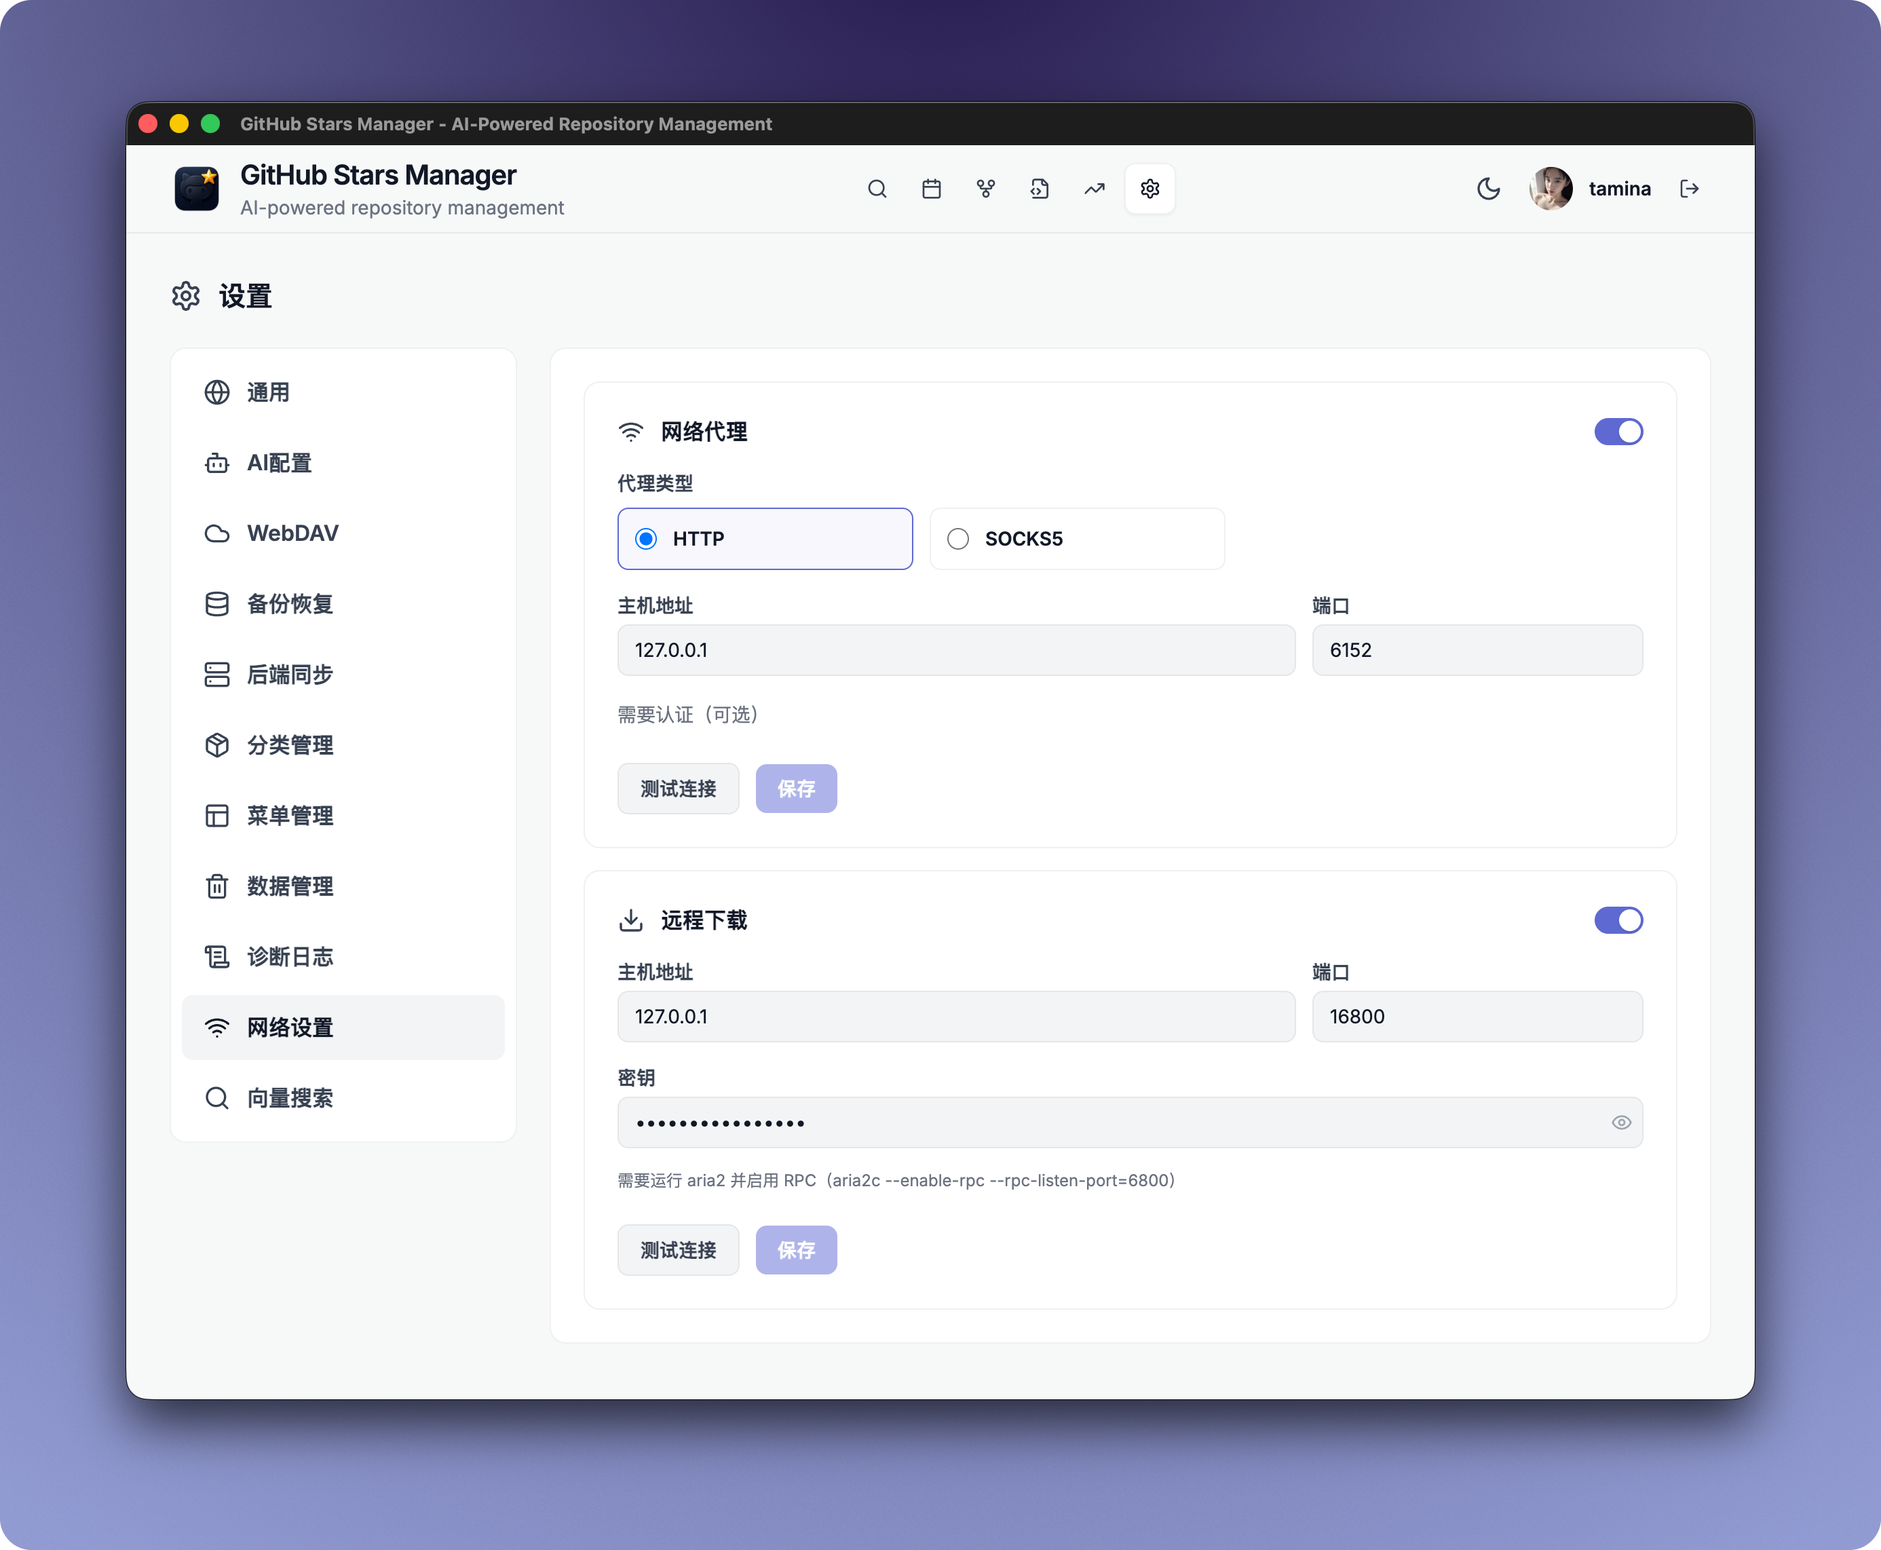
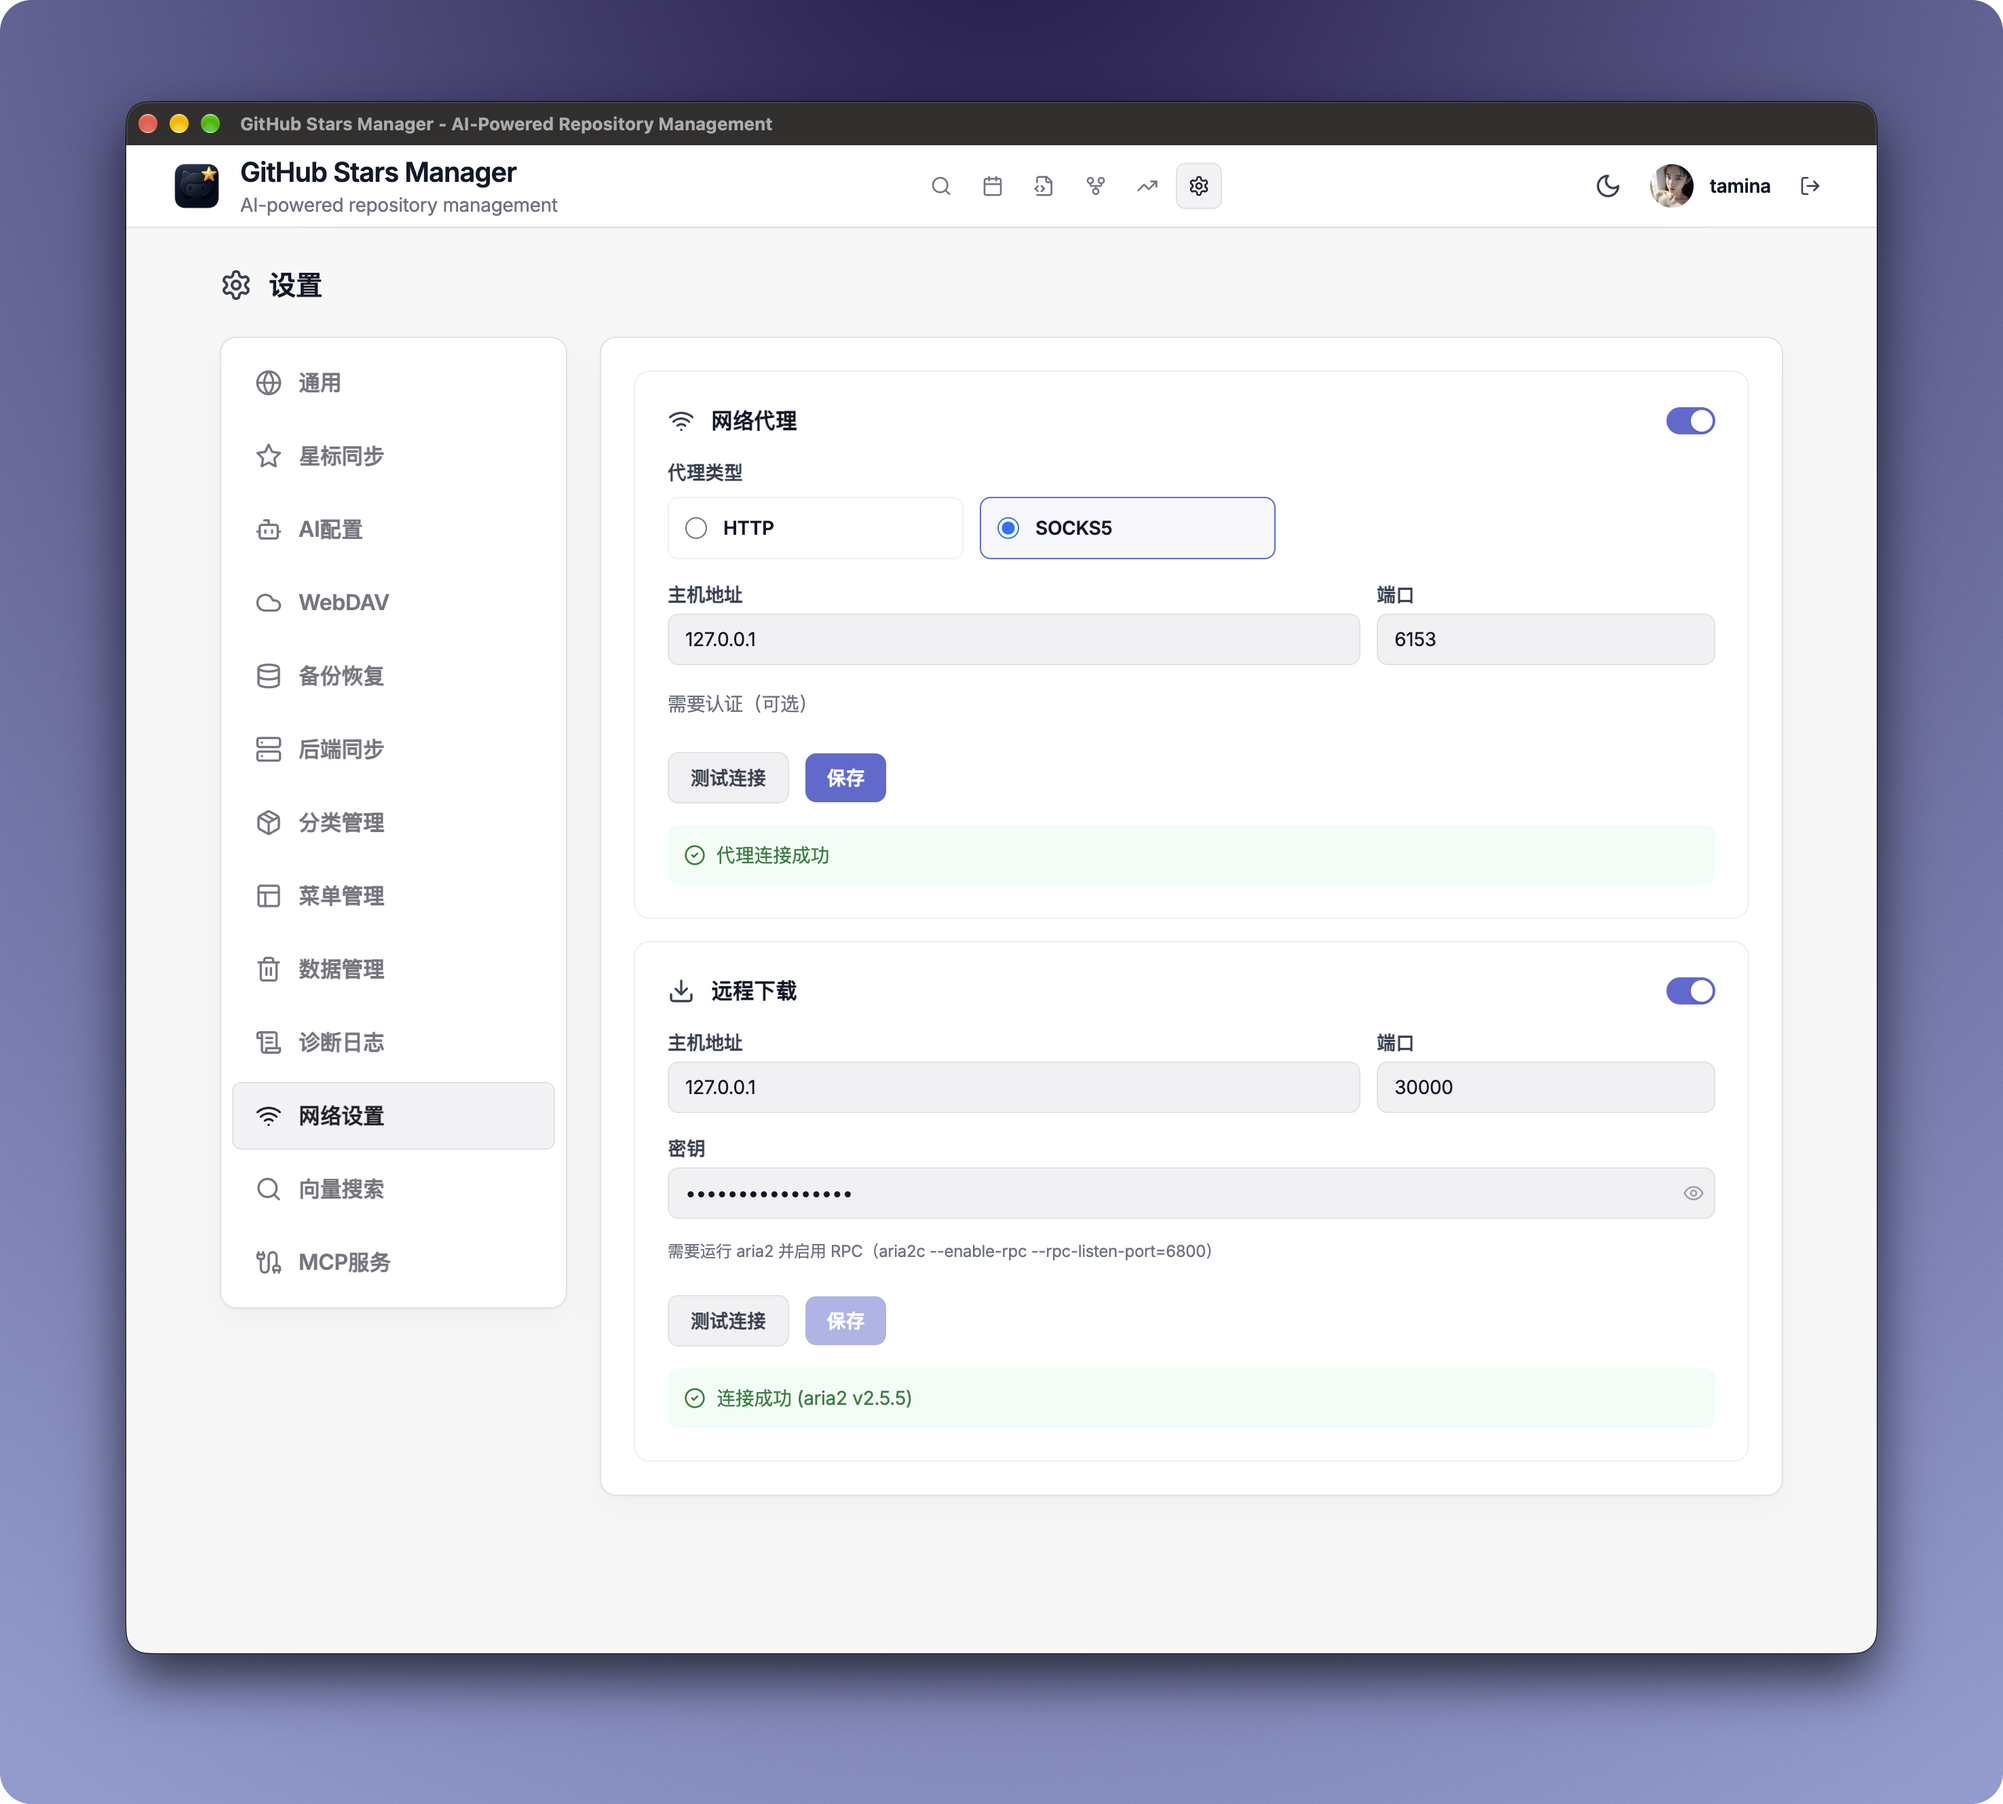
update readme

diff --git a/README.md b/README.md
@@ -28,6 +28,7 @@ GitHub Stars Manager automatically syncs your starred repos, uses AI to summariz
 | Feature | Description |
 |---------|-------------|
 | **Auto-sync Stars** | Connect your GitHub token to automatically pull all starred repositories |
+| **GitHub Lists Sync** | Bidirectional sync with native GitHub Lists: pull Lists into tags/categories with auto-lock, push local categories back as GitHub Lists |
 | **AI Summaries & Categories** | Generate tags, topics, and short README overviews using AI |
 | **Semantic Search** | Find repos by intent, not exact names |
 | **Vector Semantic Search** | Embed repo descriptions/READMEs into a Cloudflare Vectorize index; query with natural language for high-precision semantic matching |
@@ -172,6 +173,7 @@ Deploy an Express + SQLite backend for:
 | **Category** | Category management, category sorting, default category override rules |
 | **Data Management** | Data import/export, clear local data, reset all data |
 | **Vector Search** | Configure Cloudflare Vectorize worker, embedding model, index mode (description / README), and manage index rebuild |
+| **MCP Server** | Enable MCP so agents (Claude Code, Cursor, etc.) can search your AI-enriched stars via Streamable HTTP / SSE with Bearer-token auth |
 
 **Screenshot:**
 ![Settings Panel Interface](upload/settings.png)
@@ -351,6 +353,43 @@ Vector Semantic Search uses [Cloudflare Vectorize](https://developers.cloudflare
 5. Use the **AI Search** button — it will automatically use vector search when enabled
 
 > ⚠ After changing the embedding model, you must rebuild the index — different models produce incompatible vector dimensions.
+
+## 🛰 MCP Server (Agent access)
+
+Let agents (Claude Code, Cursor, etc.) read your AI-enriched starred repositories — summaries, tags, categories — and search them via the [Model Context Protocol](https://modelcontextprotocol.io/).
+
+- **Streamable HTTP** (preferred): `POST /mcp` on the app origin (backend/Docker mode) or `http://127.0.0.1:3927/mcp` (desktop local mode)
+- **Legacy SSE**: `/mcp/sse` + `/mcp/sse/messages` (backend), `/sse` + `/messages` (desktop) — for older clients
+- **Bearer-token auth** with a stable token (`gsm_mcp_...`): generated once when enabled, kept across restarts, only changes when you reset it
+
+**Enable:** Settings → MCP Server → toggle on. The panel shows the endpoint URLs, the token, and a one-click copyable agent config (JSON) for both Streamable HTTP and SSE. No extra install needed.
+
+> 💡 The MCP token is **separate** from the backend `API_SECRET`. Pure frontend (no backend) hides the MCP settings page; it works with the desktop (Electron) client or a connected backend.
+
+**Exposed tools (read-only):**
+
+| Tool | Description |
+|------|-------------|
+| `gsm_status` | Server status: repo count, vector availability, version |
+| `gsm_search_repos` | Keyword search over stars with filters (languages / tags / platforms / licenses / category / stars) and pagination |
+| `gsm_get_repo` | Fetch one repo by numeric id or `owner/repo`, with AI-processed fields |
+| `gsm_list_categories` | List custom categories |
+| `gsm_list_repos_by_category` | List repos in a category with pagination |
+| `gsm_stats` | Aggregate stats (languages, analysis, tags) |
+| `gsm_vector_search` | Semantic vector search — listed only when Vector Search is configured and enabled |
+
+**Desktop (Electron) notes:** binds loopback (`127.0.0.1`) only — local agents only; host/port adjustable in Settings (default port `3927`).
+
+![MCP](upload/mcp.png)
+
+## 🔄 GitHub Lists Bidirectional Sync
+
+Native [GitHub Lists](https://github.com/features/lists) (starred lists) sync both ways, in addition to the classic REST star sync:
+
+- **Pull (GitHub → app)** — choose **Starred repos & lists** in **Settings → Star Sync** (or on first login). Lists are fetched via GraphQL; each list name is applied as a custom tag, and unlocked repos are categorized to the matching category and **auto-locked** so AI analysis won't reset them.
+- **Push (app → GitHub)** — click **Push categories to GitHub lists** in **Settings → Star Sync**. Each local category is written back as a same-named GitHub List (existing lists overwritten, missing lists created private by default); repos join the lists matching their category, and memberships in lists not managed locally are preserved.
+
+> Scope is persistent: switch anytime between **Starred repos only** and **Starred repos & lists** in Settings → Star Sync.
 
 ## 💾 WebDAV Backup Configuration
 

diff --git a/README_zh.md b/README_zh.md
@@ -25,6 +25,7 @@
 | 功能 | 描述 |
 |------|------|
 | **自动同步星标** | 连接 GitHub Token 自动拉取所有星标仓库 |
+| **GitHub Lists 双向同步** | 与 GitHub 原生 Lists（星标列表）双向同步：拉取 Lists 归类为标签/分类并自动锁定，将本地分类回写为 GitHub Lists |
 | **AI 摘要与分类** | 使用 AI 生成标签、主题和简短 README 概览 |
 | **语义搜索** | 按意图而非精确名称查找仓库 |
 | **向量语义搜索** | 将仓库描述/README 嵌入 Cloudflare Vectorize 向量库，自然语言查询实现高精度语义匹配 |
@@ -168,6 +169,7 @@
 | **Category** | 分类管理、分类排序、默认分类覆盖规则 |
 | **Data Management** | 数据导入/导出、清除本地数据、重置所有数据 |
 | **向量搜索** | 配置 Cloudflare Vectorize Worker、Embedding 模型、索引模式（描述/README）、索引重建管理 |
+| **MCP 服务** | 开启 MCP 供 Claude Code、Cursor 等 Agent 通过 Streamable HTTP / SSE 检索 AI 加工后的星标，Bearer Token 鉴权 |
 
 **截图：**
 ![Settings Panel Interface](upload/settings.png)
@@ -295,6 +297,43 @@ npm run build
 5. 使用 **AI 搜索** 按钮 — 启用后自动走向量搜索
 
 > ⚠ 更换 Embedding 模型后必须重建索引 — 不同模型生成的向量维度不兼容。
+
+## 🛰 MCP 服务（Agent 访问）
+
+让 Agent（Claude Code、Cursor 等）通过 [Model Context Protocol](https://modelcontextprotocol.io/) 读取并检索 AI 加工后的星标仓库（摘要、标签、分类）。
+
+- **Streamable HTTP**（推荐）：应用同源 `POST /mcp`（后端/Docker 模式）或 `http://127.0.0.1:3927/mcp`（客户端本地模式）
+- **旧版 SSE**：`/mcp/sse` + `/mcp/sse/messages`（后端），`/sse` + `/messages`（客户端）— 供旧客户端使用
+- **Bearer Token 鉴权**，Token（`gsm_mcp_...`）稳定不变：开启时生成一次、重启后保持不变、仅在重置时更换
+
+**开启方式：** 设置 → MCP 服务 → 打开开关。面板会显示端点地址、Token 以及一键复制（JSON）的 Agent 配置，同时提供 Streamable HTTP 与 SSE 两套配置，无需额外安装。
+
+> 💡 MCP Token 与后端 `API_SECRET` 相互独立。纯前端（无后端）模式不显示 MCP 设置页；需要桌面（Electron）客户端或已连接后端时可用。
+
+**暴露的工具（全部只读）：**
+
+| 工具 | 说明 |
+|------|------|
+| `gsm_status` | 服务状态：仓库数、向量可用性、版本 |
+| `gsm_search_repos` | 对星标做关键词搜索，支持筛选（语言 / 标签 / 平台 / 许可证 / 分类 / 星标数）与分页 |
+| `gsm_get_repo` | 按数字 id 或 `owner/repo` 获取单个仓库，含 AI 加工字段 |
+| `gsm_list_categories` | 列出自定义分类 |
+| `gsm_list_repos_by_category` | 分页列出某分类下的仓库 |
+| `gsm_stats` | 聚合统计（语言、分析、标签） |
+| `gsm_vector_search` | 语义向量搜索 — 仅当已配置并启用向量搜索时列出 |
+
+**桌面（Electron）说明：** 仅绑定回环地址（`127.0.0.1`），只能本机 Agent 访问；可在设置中调整主机/端口（默认端口 `3927`）。
+
+![MCP](upload/mcp.png)
+
+## 🔄 GitHub Lists 双向同步
+
+在经典 REST 星标同步之外，原生 [GitHub Lists](https://github.com/features/lists)（星标列表）支持双向同步：
+
+- **拉取（GitHub → 应用）** — 在 **设置 → 星标同步** 选择 **同步星标仓库及 list**（或首次登录时选择）。通过 GraphQL 拉取 Lists；每个 list 名作为自定义标签写入，未锁定的仓库归入匹配分类并**自动锁定**，AI 分析不会重置。
+- **回写（应用 → GitHub）** — 在 **设置 → 星标同步** 点击 **同步仓库分类到 GitHub list**。每个本地分类写回为同名 GitHub List（同名覆盖、不存在则默认私有新建）；仓库按分类加入对应 list，本地未管理的其他 list 成员关系会被保留。
+
+> 同步范围持久化保存：可在 **设置 → 星标同步** 中随时在「仅星标仓库」与「星标仓库及 list」之间切换。
 
 ## 💾 WebDAV备份配置
 
